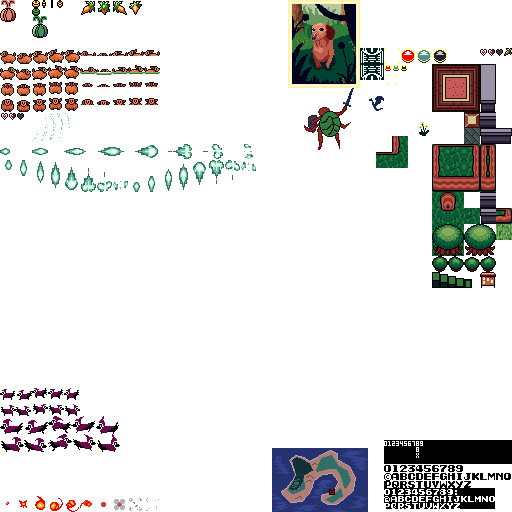
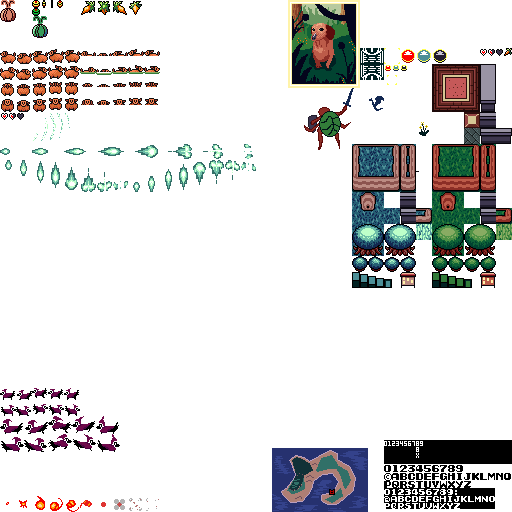
Add files via upload

Changed region(s): [[0.6875, 0.25, 0.8438, 0.5625]]

diff --git a/TileAndLevel.js b/TileAndLevel.js
@@ -56,28 +56,28 @@ var levelData = [
 		[//level 0
 			"1111111111111111",
 			"1111030111404071",
-			"1000000311000071",
+			"1880000311000071",
 			"1777777777700000",
 			"1000000004000000",
 			"1000000040400001",
 			"1030000004000001",
 			"1030000000040001",
-			"1000000000000001",
+			"1888000000000001",
 			"1111111111111111",
-			"lost_woods"
+			"blue_woods"
 		],
 		[//level 1
 			"1111111111111111",
 			"1100333224040111",
 			"1104000220004111",
-			"0030400025000071",
+			"0030400026000071",
 			"0000040000000000",
 			"1115004000000000",
 			"1110000000001111",
 			"1130303000001111",
 			"1000000404040404",
 			"4040404040404040",
-			"lost_woods"
+			"blue_woods"
 		],
 		[//level 2
 			"1111111111111111",
@@ -90,7 +90,7 @@ var levelData = [
 			"4000011000050001",
 			"4035011000000011",
 			"1111111111111111",
-			"lost_woods"
+			"blue_woods"
 		]
 	]
 
@@ -126,6 +126,7 @@ class TileManager { //helper methods for Tile class.
 		
 		this.addTheme("red_castle",432,64);
 		this.addTheme("lost_woods",432,144);
+		this.addTheme("blue_woods",352,144);
 		this.theme = this.getTheme();
 		this.numsLikeWalls = "1"; //which types of objects are treated as walls in getCostumeName();
 	}
@@ -191,6 +192,11 @@ class TileManager { //helper methods for Tile class.
 		}
 		return currentLevel[10];
 	}
+	
+	setTheme = function() {
+		this.theme = this.getTheme();
+	}
+	
 	addTileCostume = function () {
 		
 	}
@@ -245,13 +251,16 @@ class Level {
 		coins.clear();
 		enemies.clear();
 		bushes.clear();
+		barriers.clear();
+		trees.clear();
 		
 		//resetting internal stuff
 		currentLevel = levelData[currentWorld][currentLevelId];
 		this.x =0;
 		this.y = 0;
 		this.tiles = [];
-			
+		tileManager.theme = tileManager.getTheme();
+		
 		for (let row = 0; row < 10; row++) {
 			for (let col = 0; col < 16; col++) {
 				let cell = currentLevel[row][col]
@@ -275,15 +284,8 @@ class Level {
 					}
 				}				
 				if (cell == 4) {
-					this.tiles[this.tiles.length - 1].solid = true;
-					this.tiles[this.tiles.length - 1].setSize(32,32);
-					this.tiles[this.tiles.length - 1].setHitbox(2,5,28,25);
-					
-					this.tiles[this.tiles.length - 1].addCostume("tree",432,224,32,32);
-					this.tiles[this.tiles.length - 1].addCostume("tree_clear_bg",464,224,32,32);
-					this.tiles[this.tiles.length - 1].setCurrentCostume("tree");
+					trees.add(new Tree(col * 16,row * 16 + game.window.tly,tileManager.theme[0]));
 				}
-				
 				if (cell == 5) {
 					let temp = new JumpingKaidi(col * 16,row * 16 + game.window.tly);
 					if (!coins.collectedItems.includes(currentWorld + "_" + currentLevelId + "_" + temp.toString())) {
@@ -297,9 +299,18 @@ class Level {
 					}
 				}
 				if (cell == 7) {
-					let temp = new Bush(col * 16,row * 16 + game.window.tly,1);
+					let temp = new Bush(col * 16,row * 16 + game.window.tly,tileManager.theme[0]);
 					if (!bushes.collectedItems.includes(currentWorld + "_" + currentLevelId + "_" + temp.toString())) {
 						bushes.add(temp);
+					}
+					
+					//this.tiles[this.tiles.length - 1].addCostume("grass_tile",496,224,16,16);
+					//this.tiles[this.tiles.length - 1].setCurrentCostume("grass_tile");
+				}
+				if (cell == 8) {
+					let temp = new Barrier(col * 16,row * 16 + game.window.tly,1);
+					if (!barriers.collectedItems.includes(currentWorld + "_" + currentLevelId + "_" + temp.toString())) {
+						barriers.add(temp);
 					}
 					
 					//this.tiles[this.tiles.length - 1].addCostume("grass_tile",496,224,16,16);

diff --git a/CollisionHandler.js b/CollisionHandler.js
@@ -39,7 +39,51 @@ class CollisionHandler {
 		}
 	}
 	
+	wall_primitive = function(sprite,obj) {
+		if (sprite == player) {
+			//console.log("v");
+			let touchingGrass = sprite.isTouching(obj) && obj.currentCostume.name.includes("grass_tile");
+			let touching = sprite.isTouching(obj) && obj.solid;
+			//
+			if (touching) {
+				sprite.reverseByVel();
+				
+				sprite.x += sprite.xv;
+				if (sprite.isTouching(obj) && obj.solid) {
+					sprite.x -= sprite.xv;
+				}
+				sprite.y += sprite.yv;
+				if (sprite.isTouching(obj) && obj.solid) {
+					sprite.y -= sprite.yv;
+				}
+				return sprite;
+			}
+		}
+		if (sprite.isTouching(obj) && obj.solid) {
+			//console.log("hit wall");
+			sprite.moveTo(sprite.x - sprite.xv,sprite.y - sprite.yv);
+			sprite.reachedEdge();
+			//return;
+		}
+		return sprite;	
+	}
+	
 	wall = function(sprite) {
+		for (let i = 0; i < trees.objs.length; i++) {
+			sprite = this.wall_primitive(sprite,trees.objs[i]);
+		}
+		for (let i = 0; i < barriers.objs.length; i++) {
+			sprite = this.wall_primitive(sprite,barriers.objs[i]);
+		}
+		for (let i = 0; i < bushes.objs.length; i++) {
+			sprite = this.wall_primitive(sprite,bushes.objs[i]);
+			if (player.attack.isTouching(bushes.objs[i])) {
+			//console.log("bush is dying");
+			bushes.objs[i].takeDamage(1);
+			bushes.collectedItems.push(currentWorld + "_" + currentLevelId + "_" + bushes.objs[i].toString());
+			//bushes.objs.splice(i,1);
+			}
+		}
 		
 		for (let i = 0; i < level.tiles.length; i++) {
 			if (sprite == player) {
@@ -70,39 +114,6 @@ class CollisionHandler {
 				sprite.moveTo(sprite.x - sprite.xv,sprite.y - sprite.yv);
 				sprite.reachedEdge();
 				return;
-			}
-		}
-		
-		
-		for (let i = 0; i < bushes.objs.length; i++) { //BUSH DATA
-			if (sprite == player && !bushes.objs[i].currentCostume.name.includes("death")) {
-				let obj = bushes.objs[i];
-				let touching = sprite.isTouching(obj) && obj.solid;
-				//player collision
-				if (touching) {
-					sprite.reverseByVel();
-					
-					sprite.x += sprite.xv;
-					if (sprite.isTouching(obj) && obj.solid) {
-						sprite.x -= sprite.xv;
-					}
-					sprite.y += sprite.yv;
-					if (sprite.isTouching(obj) && obj.solid) {
-						sprite.y -= sprite.yv;
-					}
-				}
-			}
-			if (sprite.isTouching(bushes.objs[i]) && bushes.objs[i].solid) { //if enemy or something else collides here
-				//console.log("hit wall");
-				sprite.moveTo(sprite.x - sprite.xv,sprite.y - sprite.yv);
-				sprite.reachedEdge();
-				return;
-			}
-			if (player.attack.isTouching(bushes.objs[i])) {
-				//console.log("bush is dying");
-				bushes.objs[i].takeDamage(1);
-				bushes.collectedItems.push(currentWorld + "_" + currentLevelId + "_" + bushes.objs[i].toString());
-				//bushes.objs.splice(i,1);
 			}
 		}
 		

diff --git a/Coin.js b/Coin.js
@@ -21,7 +21,7 @@ class Coin extends Sprite {
 
 
 class Bush extends MovingSprite {
-	constructor(x,y) {
+	constructor(x,y,theme) {
 		super();
 		
 		this.moveTo(x,y);
@@ -29,8 +29,9 @@ class Bush extends MovingSprite {
 		this.setHP(1,1);
 		
 		this.addAnimation("enemy_death",0,496,16,16,10,2);
-		this.addAnimation("bush_idle",432,256,16,17,4,6);
-		this.setAnimation("bush_idle");
+		this.addAnimation("lost_woods_bush_idle",432,256,16,17,4,6);
+		this.addAnimation("blue_woods_bush_idle",352,256,16,17,4,6);
+		this.setAnimation(theme + "_bush_idle");
 	}
 	
 	process = function() {
@@ -50,8 +51,29 @@ class Bush extends MovingSprite {
 	}
 }
 
+var barrierData = [];
+
+function addBarrierCondition (world,level,condition) {
+	barrierData.push(world,level,condition);
+}
+/*
+	KILL_ALL_ENEMIES
+	GET_ALL_COINS
+	
+*/
+addBarrierCondition(1,0,"KILL_ALL_ENEMIES");
+
+function getBarrierCondition (world,level) {
+	for (let i = 0; i < barrierData.length; i++) {
+		if (barrierData[i][0] == world && barrierData[i][1] == level) {
+			return barrierData[i][2];
+		}
+	}
+	return "flatten";
+}
+
 class Barrier extends Sprite {
-	constructor(x,y) {
+	constructor(x,y,world,level) {
 		super();
 		this.moveTo(x + 4,y);
 		this.solid = true;
@@ -60,15 +82,53 @@ class Barrier extends Sprite {
 		this.addAnimation("descend",432,272,8,16,5,3);
 		this.addCostume("tall",432,272,8,16);
 		this.addCostume("short",464,272,8,16);
-		this.setCostume("tall");
+		this.setCurrentCostume("tall");
+		this.world = world;
+		this.level = level;
+		
+	}
+	
+	conditionProcess = function(world,level) {
+		let cond = getBarrierCondition(world,level);
+		switch(cond) {
+			case "KILL_ALL_ENEMIES":
+				if () {
+					
+				}
+			break;
+			case "GET_ALL_COINS":
+			
+			break;
+		}
 	}
 	
 	process = function() {
 		this.tick();
 		if (this.animationActive != -1) {
 			if (this.animations[this.animationActive].frames.length - 1 == this.currentFrame) {
-				this.setCostume("short");
+				this.setCurrentCostume("short");
+				this.solid = false;
 			}
 		}
+	}
+}
+
+class Tree extends Sprite {
+	constructor(x,y,theme) {
+		super();
+		this.theme = theme;
+		this.moveTo(x,y);
+		this.solid = true;
+		this.setSize(32,32);
+		this.setHitbox(2,5,28,25);
+		
+		this.addCostume("lost_woods_tree",432,224,32,32);
+		this.addCostume("blue_woods_tree",352,224,32,32);
+		this.addCostume("lost_woods_tree_clear_bg",464,224,32,32);
+		this.setCurrentCostume(this.theme + "_tree");
+	}
+	
+	process = function() {
+		this.tick();
 	}
 }

diff --git a/Enemy.js b/Enemy.js
@@ -24,6 +24,7 @@ class JumpingKaidi extends Enemy {
 	constructor(x,y) {
 		super();
 		this.setSize(16,12);
+		this.setHitbox(0,0,this.width,this.height);
 		this.setHP(1,1);
 		this.moveTo(x,y);
 		this.heading = -1; //left
@@ -74,10 +75,12 @@ class BigJumpingKaidi extends JumpingKaidi {
 	constructor(x,y) {
 		super(x,y);
 		this.setSize(24,18);
+		this.setHitbox(0,0,this.width,this.height);
 		this.speed = 4;
 		this.deleteAllAnimations();
 		this.addAnimation("jump_left",0,416,24,18,5,2);
 		this.addAnimation("jump_right",0,434,24,18,5,2);
+		this.setAnimation("jump_left");
 	}
 }
 

diff --git a/main.js b/main.js
@@ -63,6 +63,8 @@ function process() {
 		case "game":
 			player.process();
 			coins.process();
+			barriers.process();
+			trees.process();
 			bushes.process();
 			collisions.process();
 			enemies.process();
@@ -92,6 +94,8 @@ function draw() {
 		case "game":
 			level.drawTiles();
 			bushes.draw();
+			barriers.draw();
+			trees.draw();
 	
 			coins.draw();
 			enemies.draw();

diff --git a/Variables.js b/Variables.js
@@ -3,3 +3,5 @@ var player = new Player();
 var coins = new ObjectHandler();
 var bushes = new ObjectHandler();
 var enemies = new ObjectHandler();
+var barriers = new ObjectHandler();
+var trees = new ObjectHandler();
